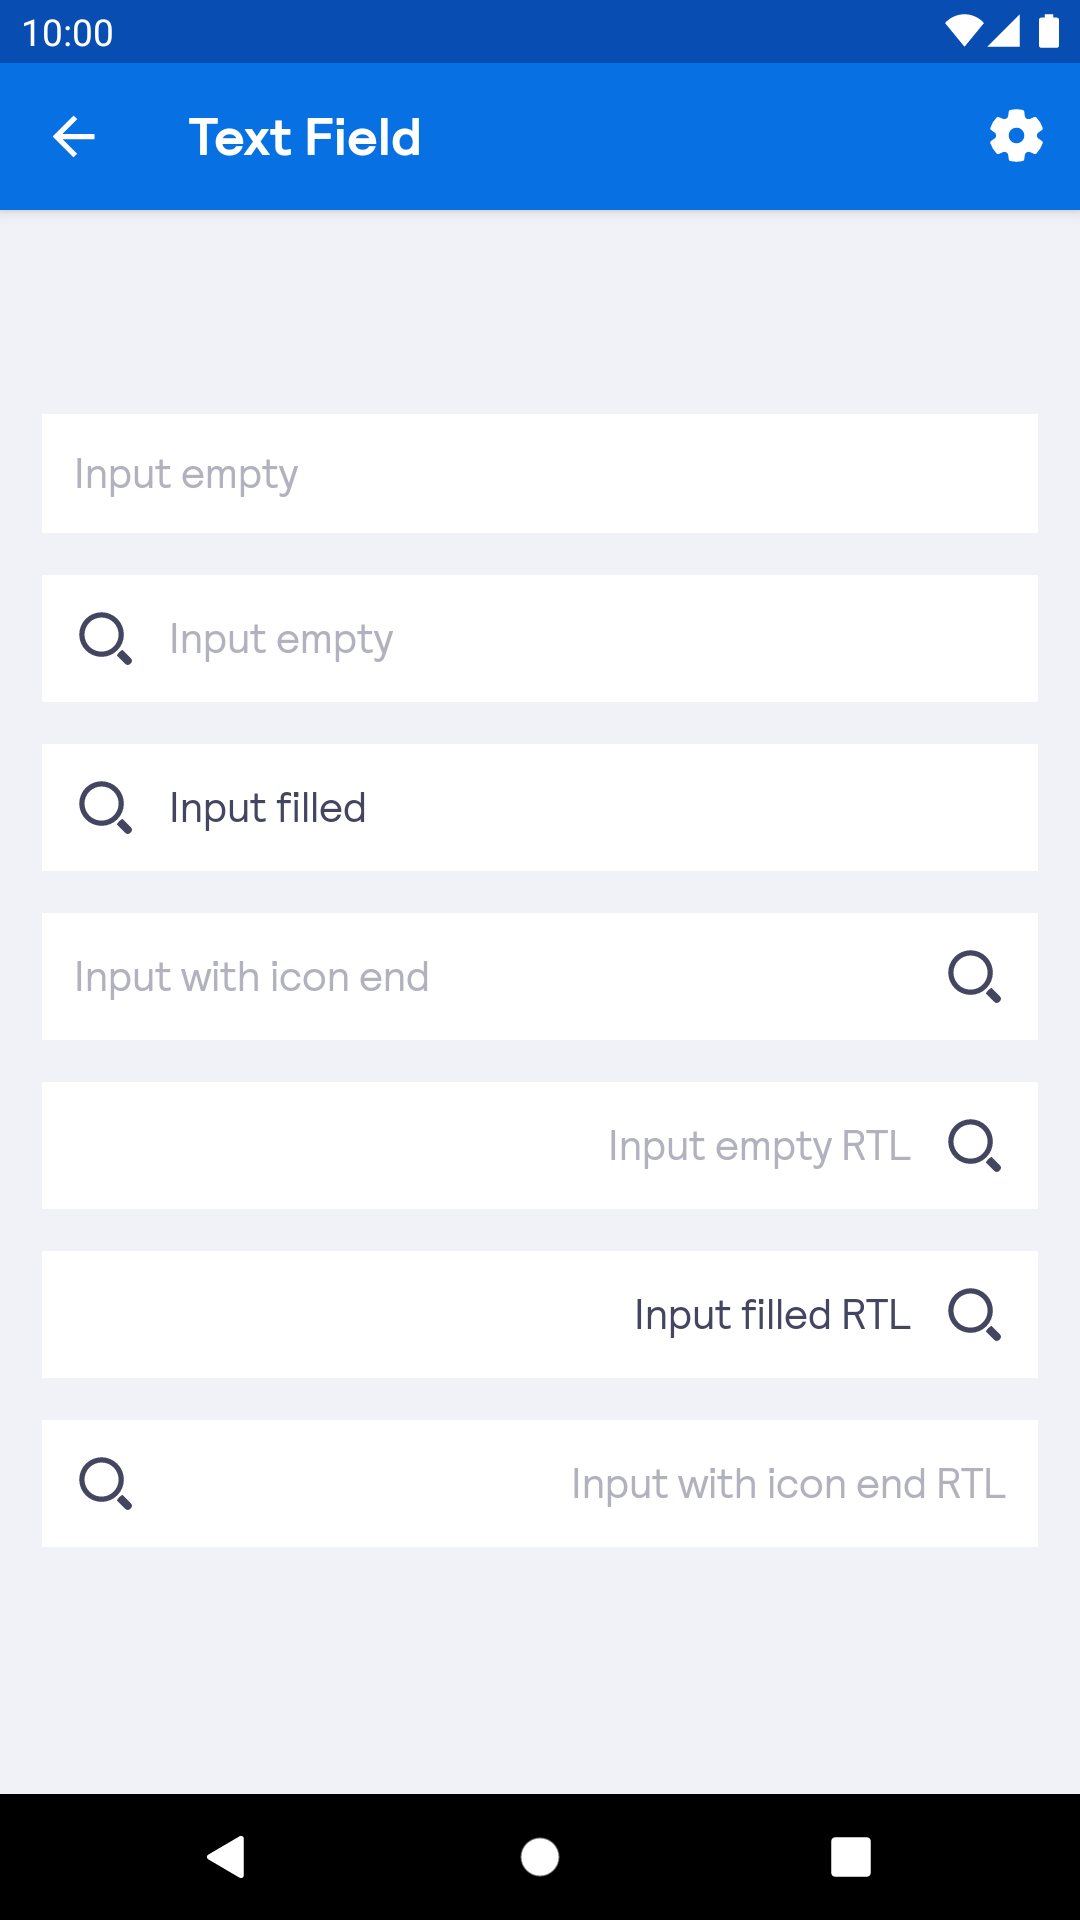
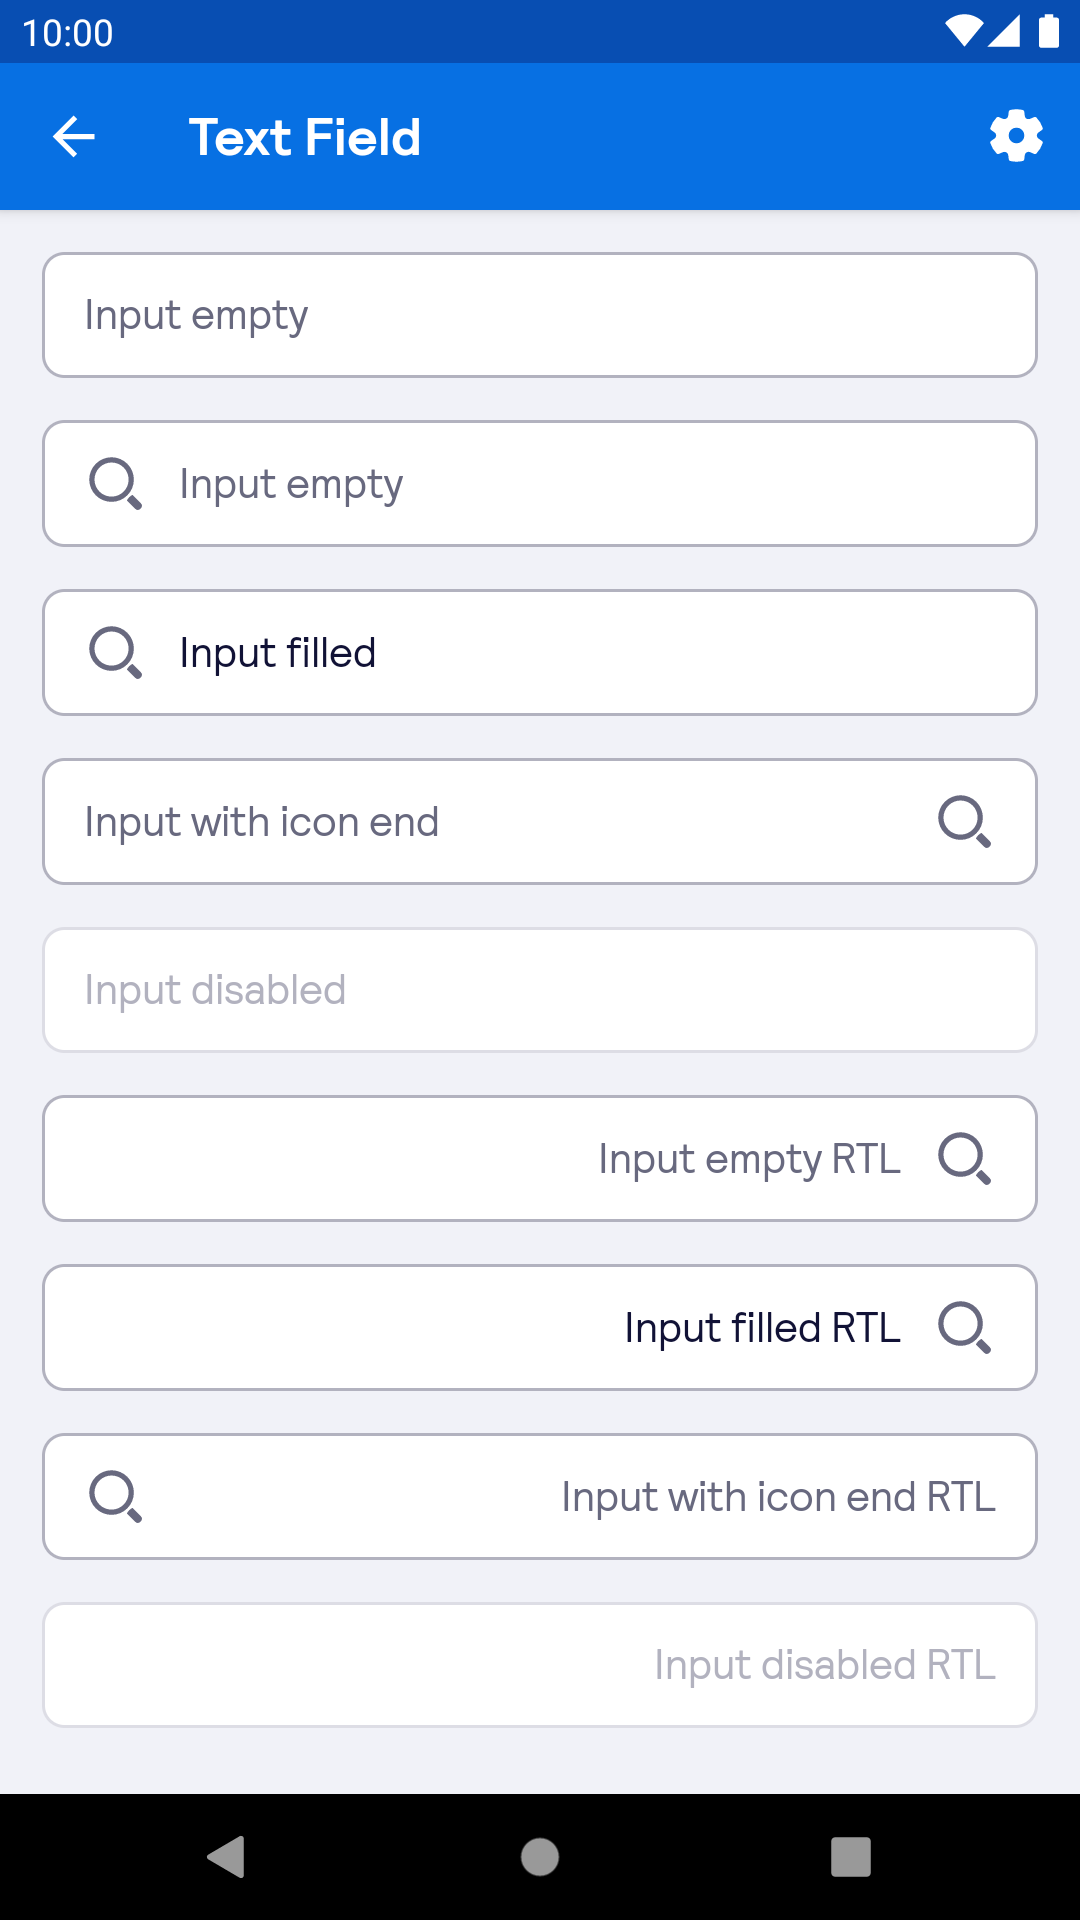
Updated the docs and UNRELEASED.md

diff --git a/UNRELEASED.md b/UNRELEASED.md
@@ -5,6 +5,8 @@
 **Added:**
   - `BpkCalendar`
     - New functionality – labels for each cell.
+  - `BpkTextField`
+    - New design.
 
 ## How to write a good changelog entry
 
